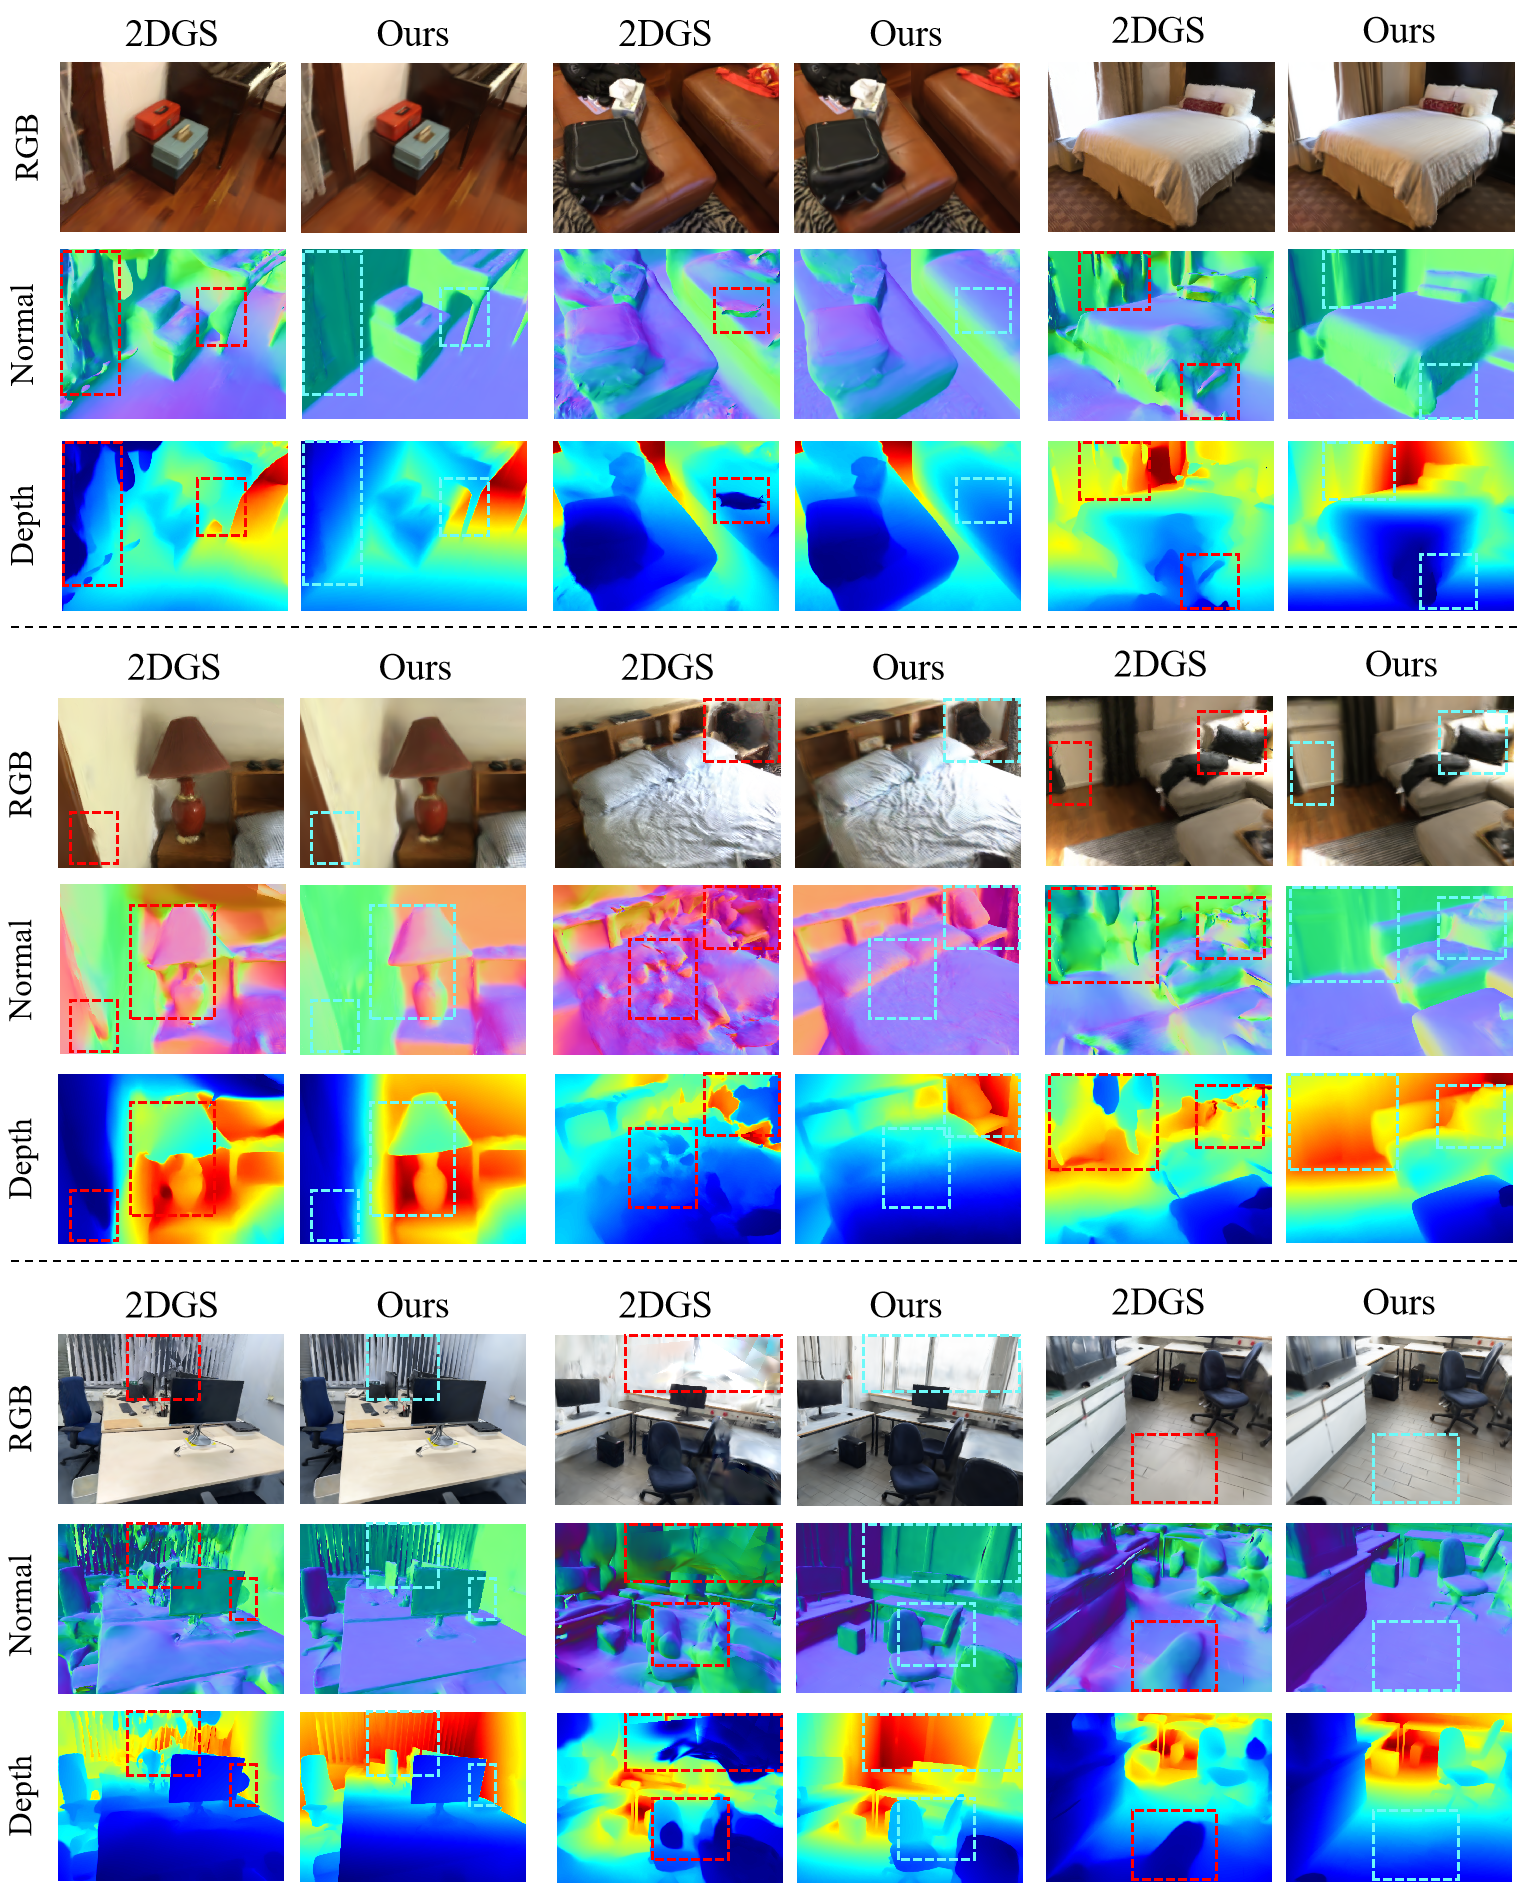
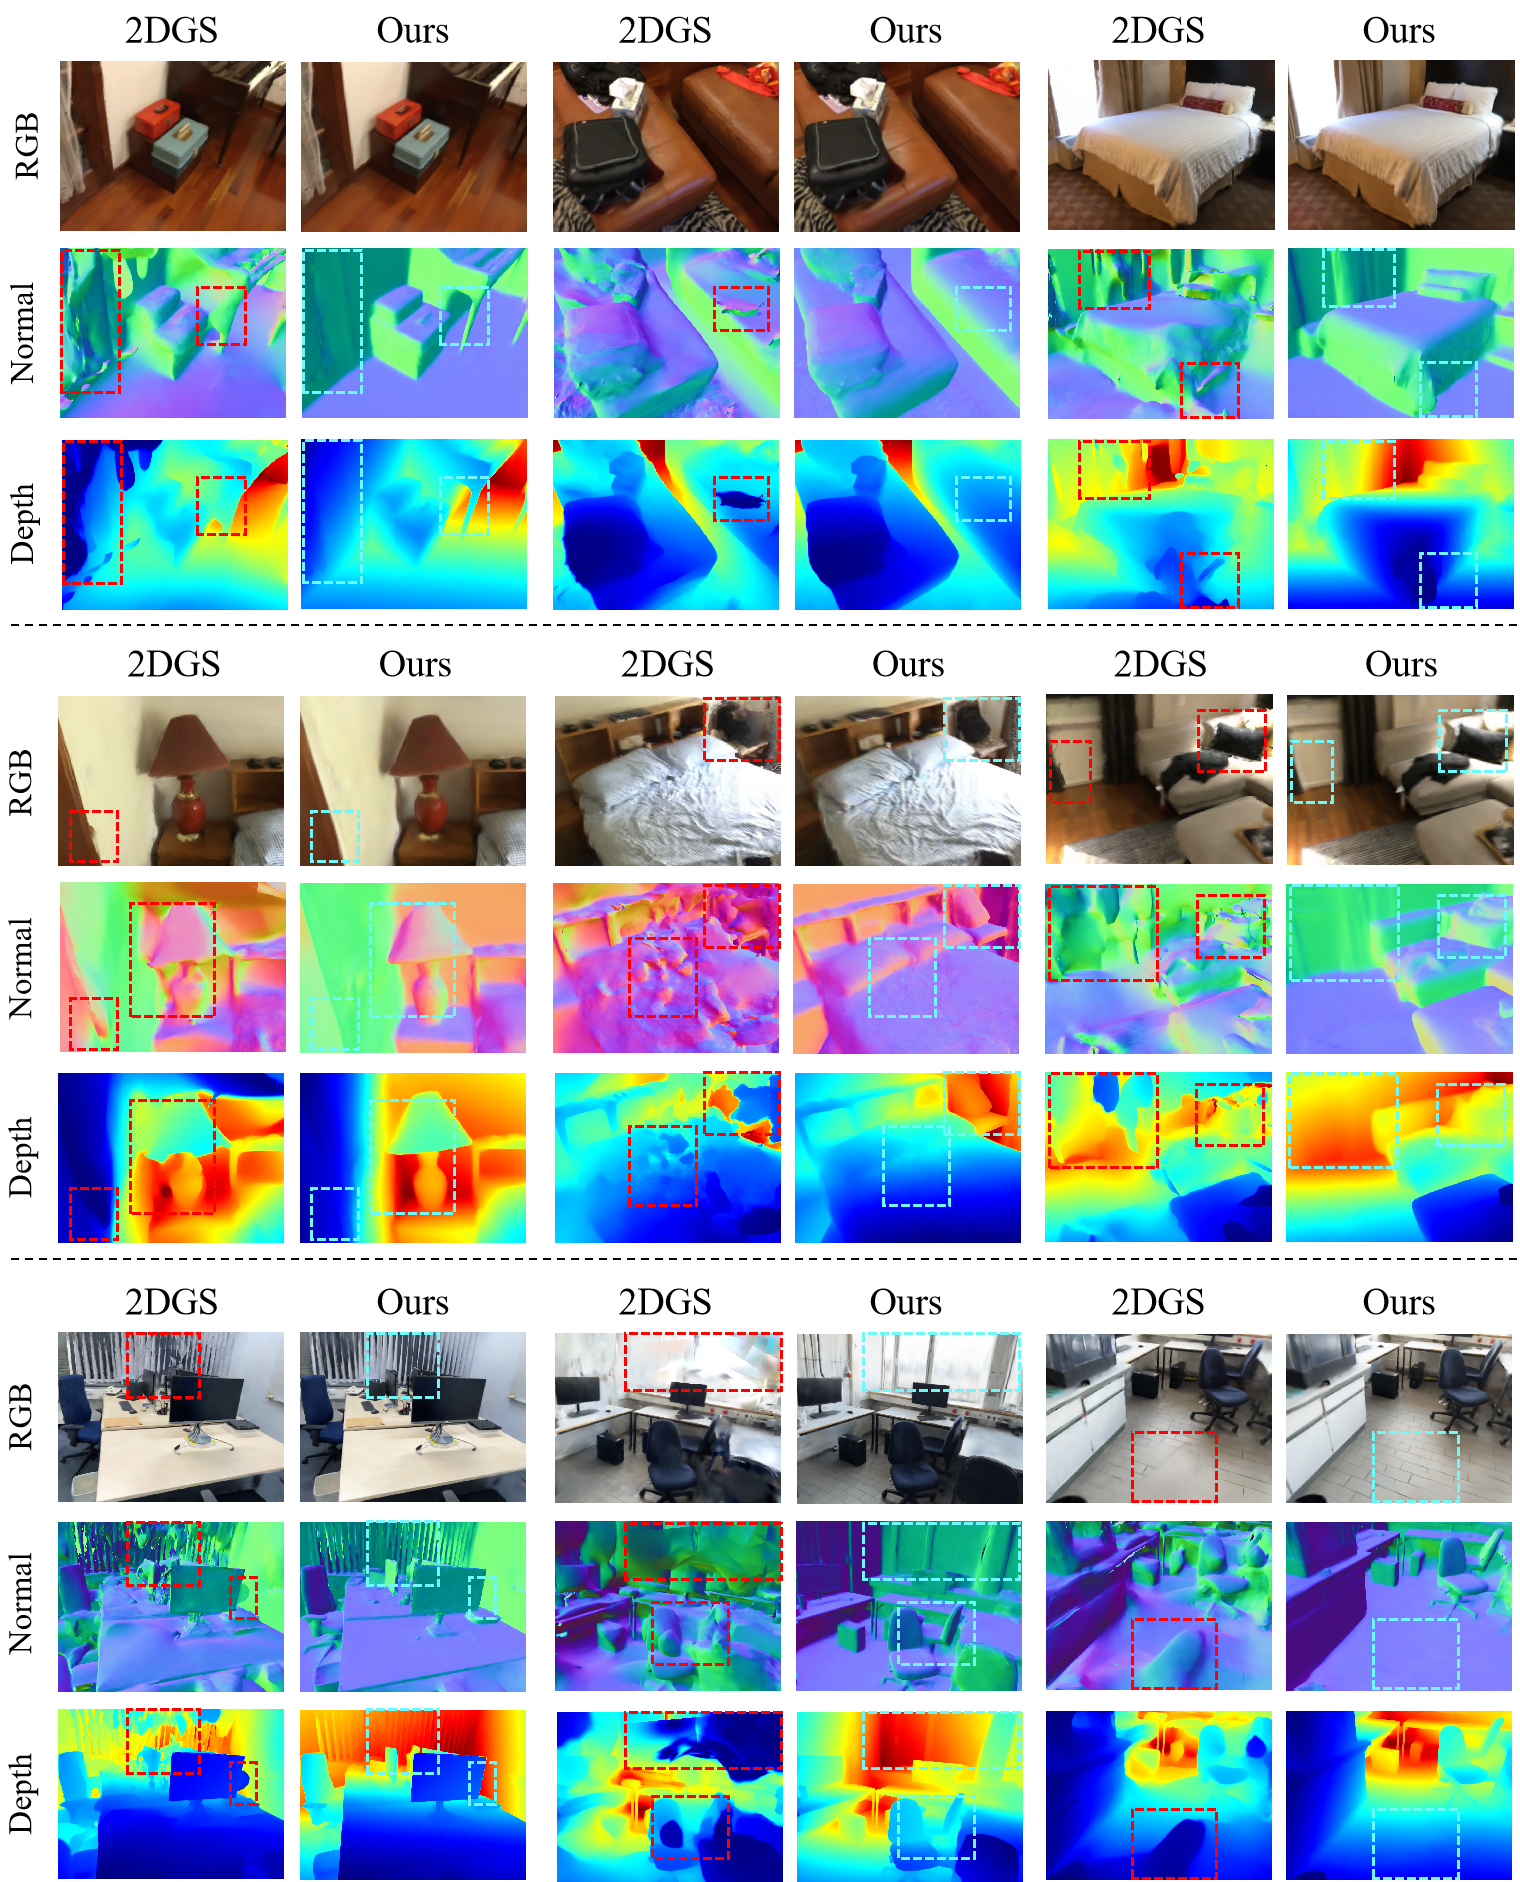
update

diff --git a/index.html b/index.html
@@ -410,12 +410,12 @@
   </div>
 </section>
 
-
+<br>
 <section class="hero teaser">
     <div class="columns is-centered has-text-centered">
       <h2 class="title is-3">Rendering Comparisons</h2>
     </div>
-    <br><br>
+    <br>
     <div class="container is-max-desktop">
         <div class="content has-text-justified"> 
           <img src="./static/images/x_render.png" alt="rendering" width="20000">
